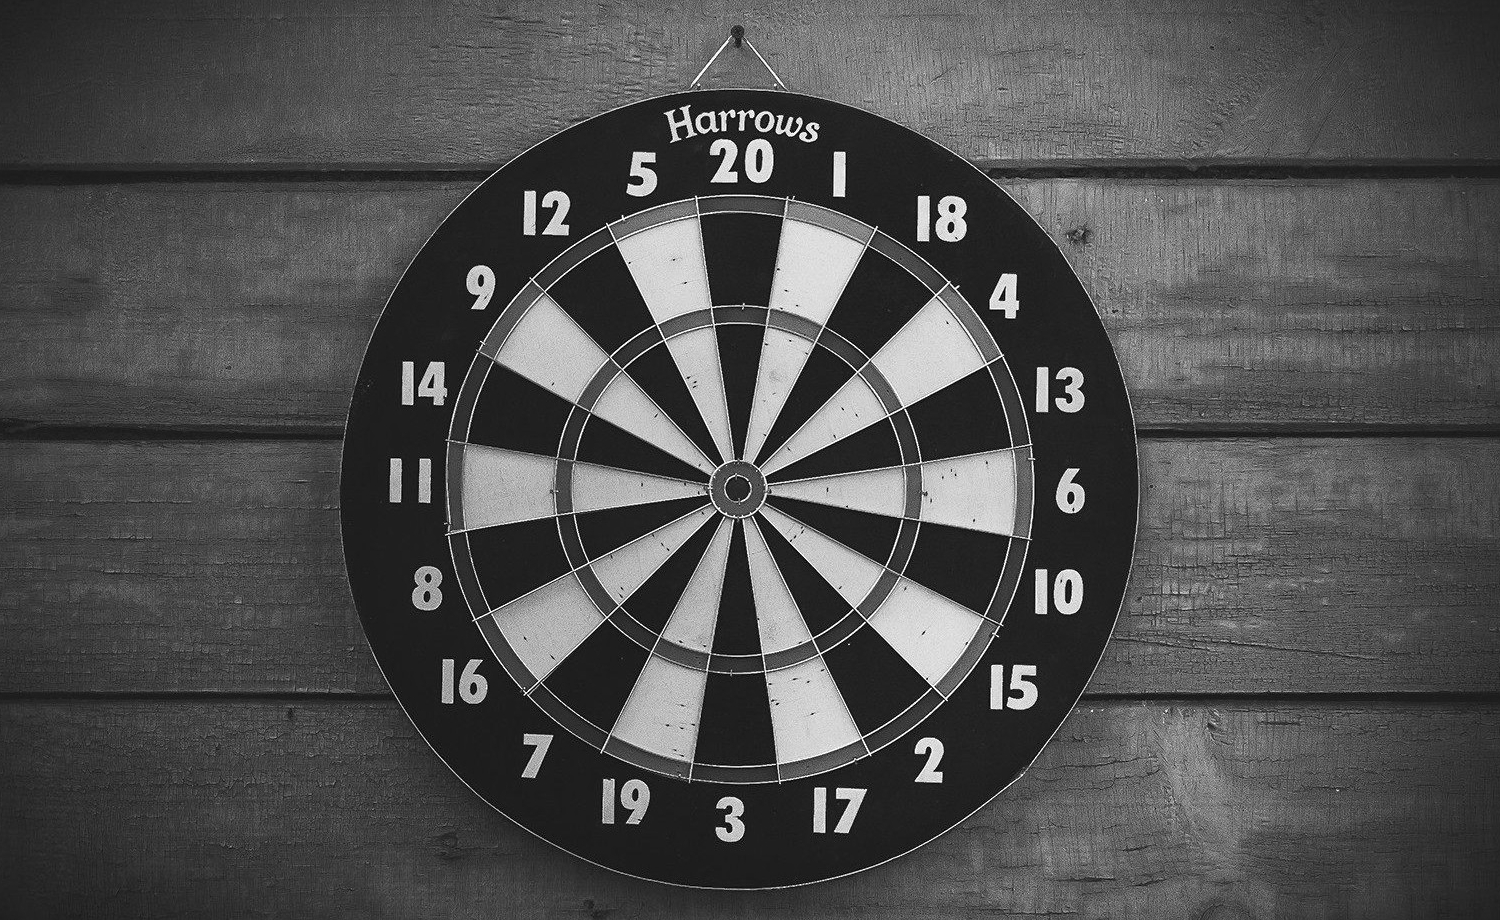
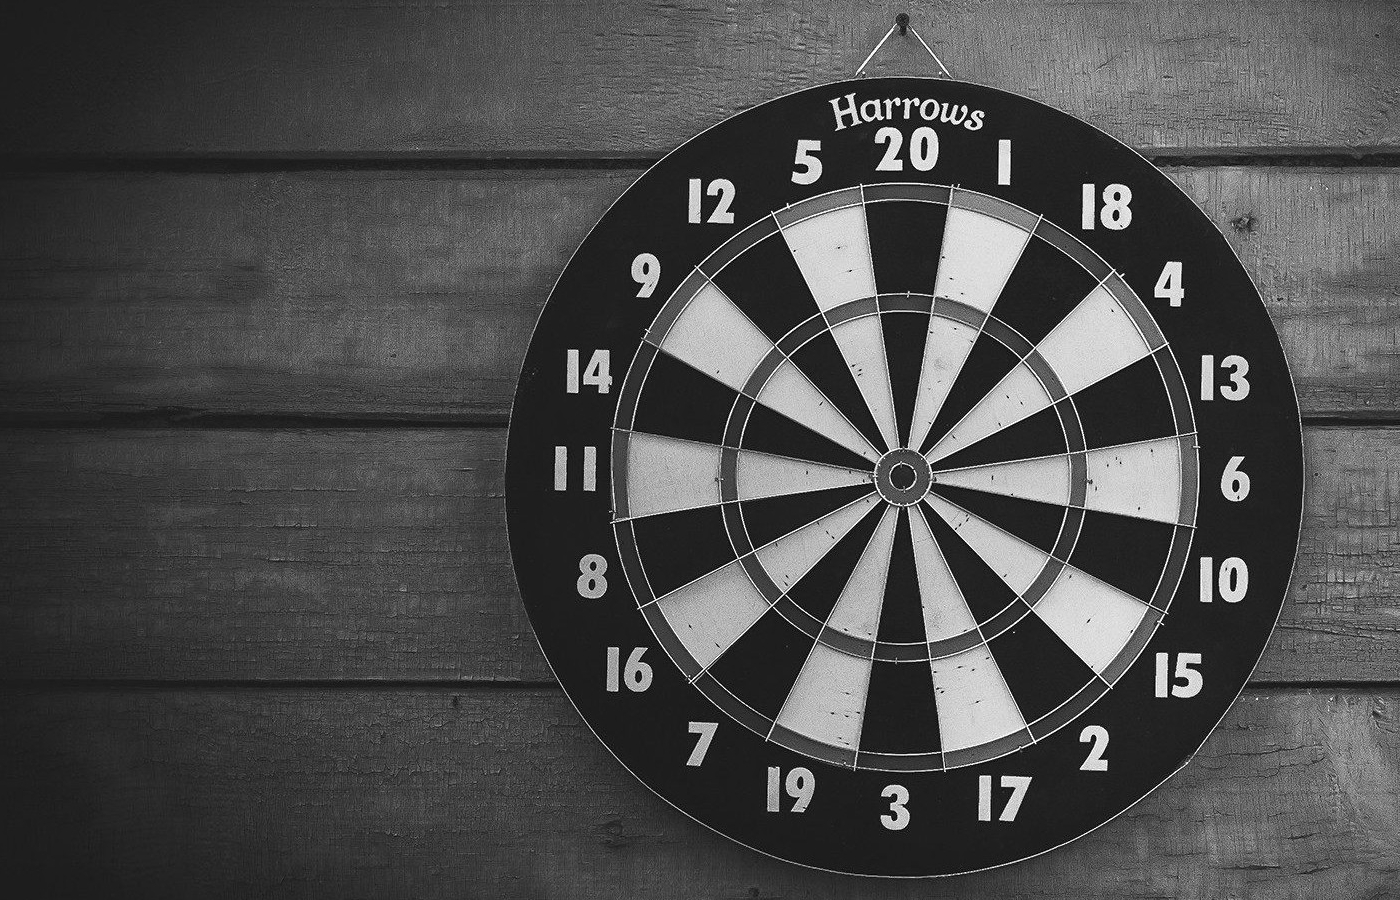
front end is fixed, added css

diff --git a/website/style.css b/website/style.css
@@ -10,23 +10,26 @@ body{
 }
 #defaultCanvas0{
     position: absolute;
-        margin: 80px 100px 0px 150px;
-        /*border: 20px solid rgba(0, 0, 0, 1);*/       
+        height: 650px;
+        width: 900px;
+        margin: 50px 40px 0px 430px;
+        /*border: 20px solid rgba(0, 0, 0, 1);       */
 }
 .form{
-    margin-top: 250px;
-    margin-left: 20px; 
+    margin-top: 200px;
+    margin-left: 150px; 
     font-size: 25px;
     color: white;
     text-align: center;
     width: 200px;
 }
 input{
-    width: 150px;
+    width: 100%;
     height: 30px;
     border-radius: 10px;
     font-size: 22px;
     border: none;
+    margin-top: 10px;
 }
 #submit{
     width: 60px;
@@ -51,4 +54,10 @@ input{
     border: 1px solid #b3b3b3;
     cursor: pointer;
     font-weight: 900;
+}
+#info{
+    margin-top: 10px;
+    margin-left: -15px;
+    border: 1px solid #b3b3b3;
+    border-radius: 50%;
 }

diff --git a/website/index.html b/website/index.html
@@ -27,6 +27,13 @@
 		<a href="javascript:location.reload(true)"><button id="submit">Play</button></a>
 		<br>
 		<a href="/names"><button id="names">All Players</button></a>
+		<br>
+		<a href="#" onclick="myFunction()"><img id="info" src="assets/info.png" width="40px" alt="info"/></a>
 	</div>
+	<script>
+function myFunction() {
+    alert("This is name and age API database build using NODE.js and p5.js libraries. To add your name and age simply fill the input fields and click [Play] (You can add name and age manually like so http://localhost:3000/add/<NAME>/<AGE>). Your name will display as 'dart' on dartboard. Also you can view all names in database just press [All Players].");
+}
+</script>
 </body>
 </html>

diff --git a/website/sketch.js b/website/sketch.js
@@ -1,5 +1,5 @@
 function setup(){
-    createCanvas(1000, 750);
+    createCanvas(850, 770);
     drawData();
     console.log('running');
 
@@ -33,7 +33,7 @@ function gotData(data){
         textSize(15);
         text(name, x, y);
         fill(224, 22, 22)
-        ellipse(x-10, y-10, 15, 15);
+        ellipse(x+20, y-22, 15, 15);
     }
     console.log(keys);
 }

diff --git a/README.md b/README.md
@@ -54,3 +54,8 @@ var data = JSON.stringify(names);
 25. Create input fields for name and age in index.html
 26. Create button SUBMIT
 27. Add var button to `sketch.js` file to select DOM element with the ID 'submit' (line 7-)
+
+### Deploy to server
+1.
+2.
+3.
